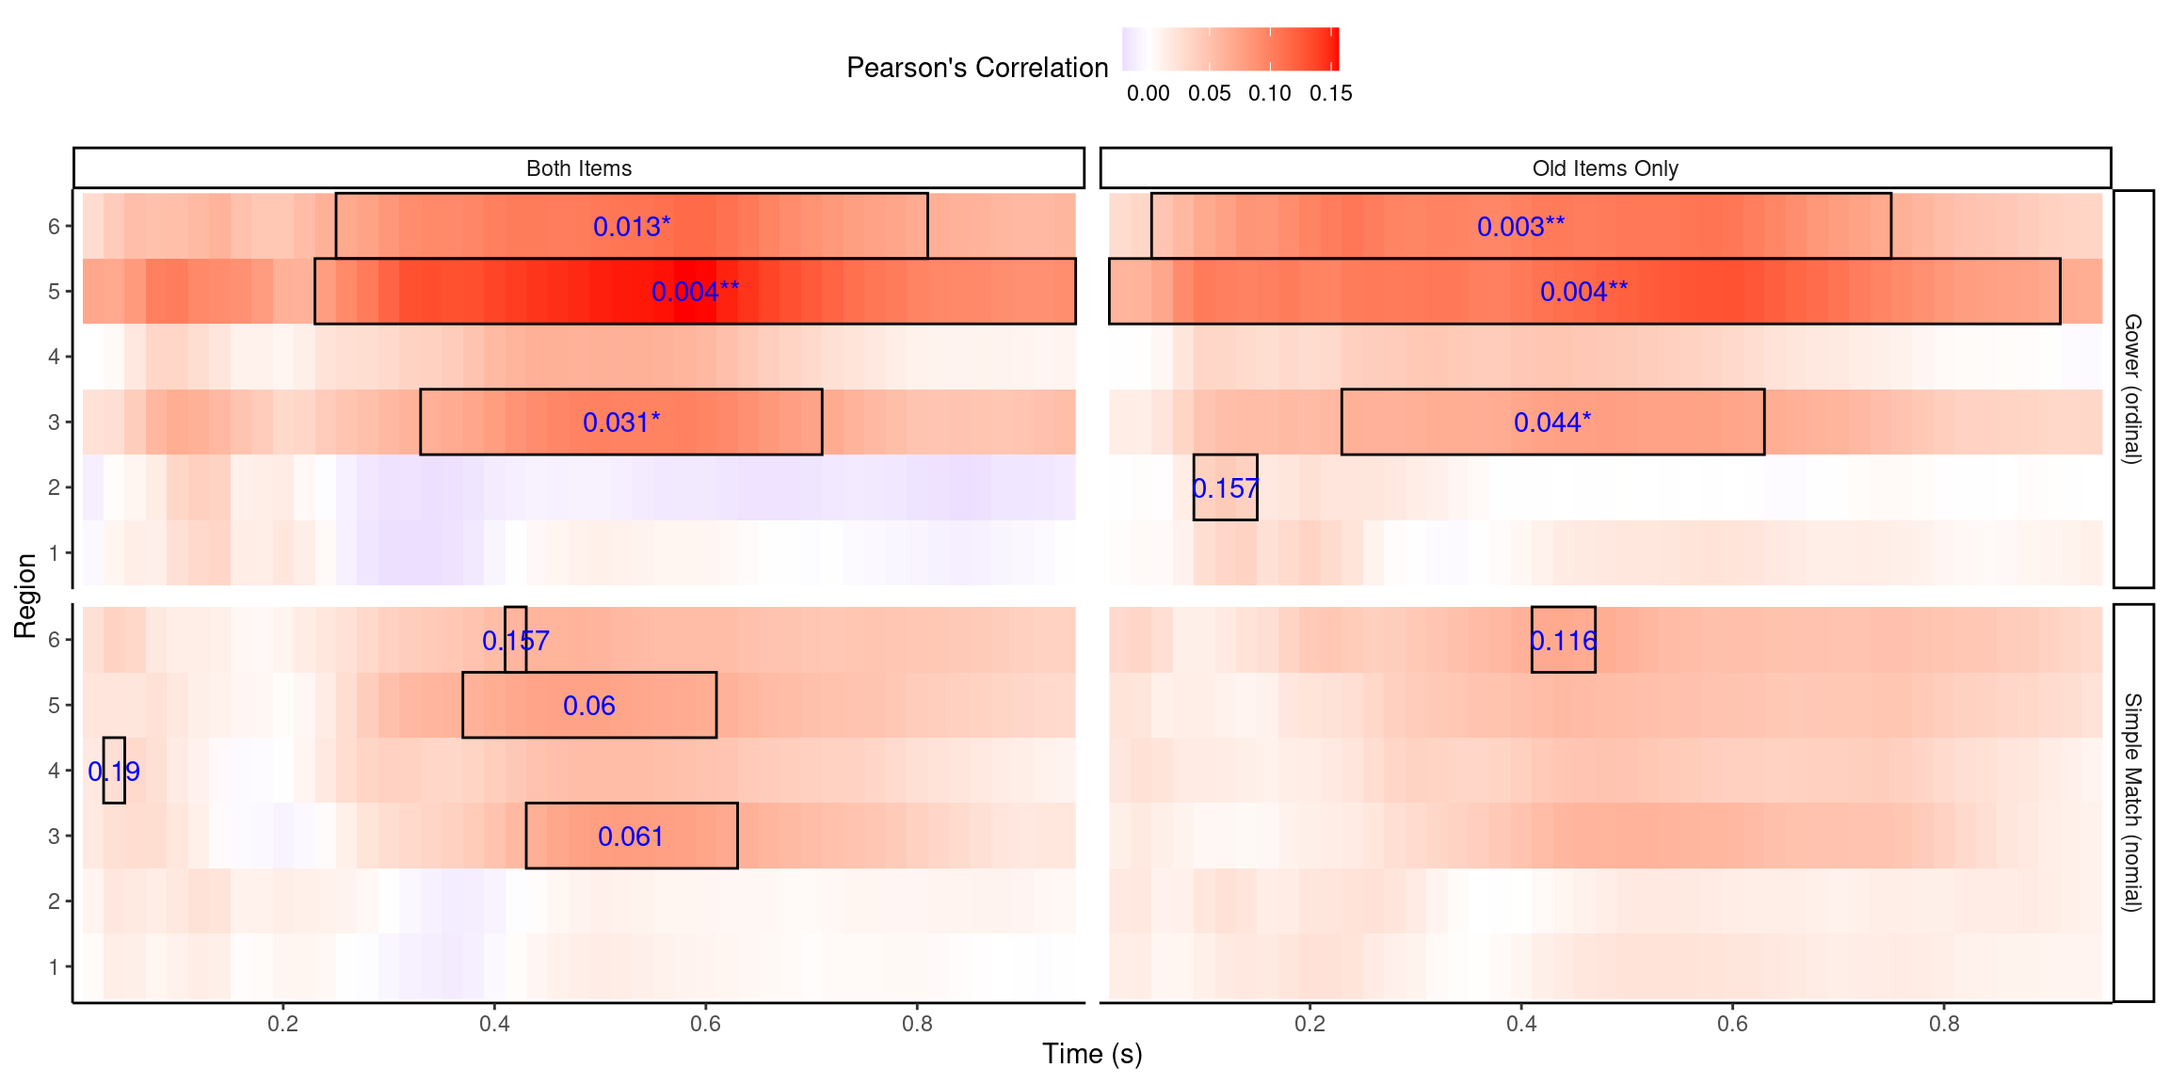
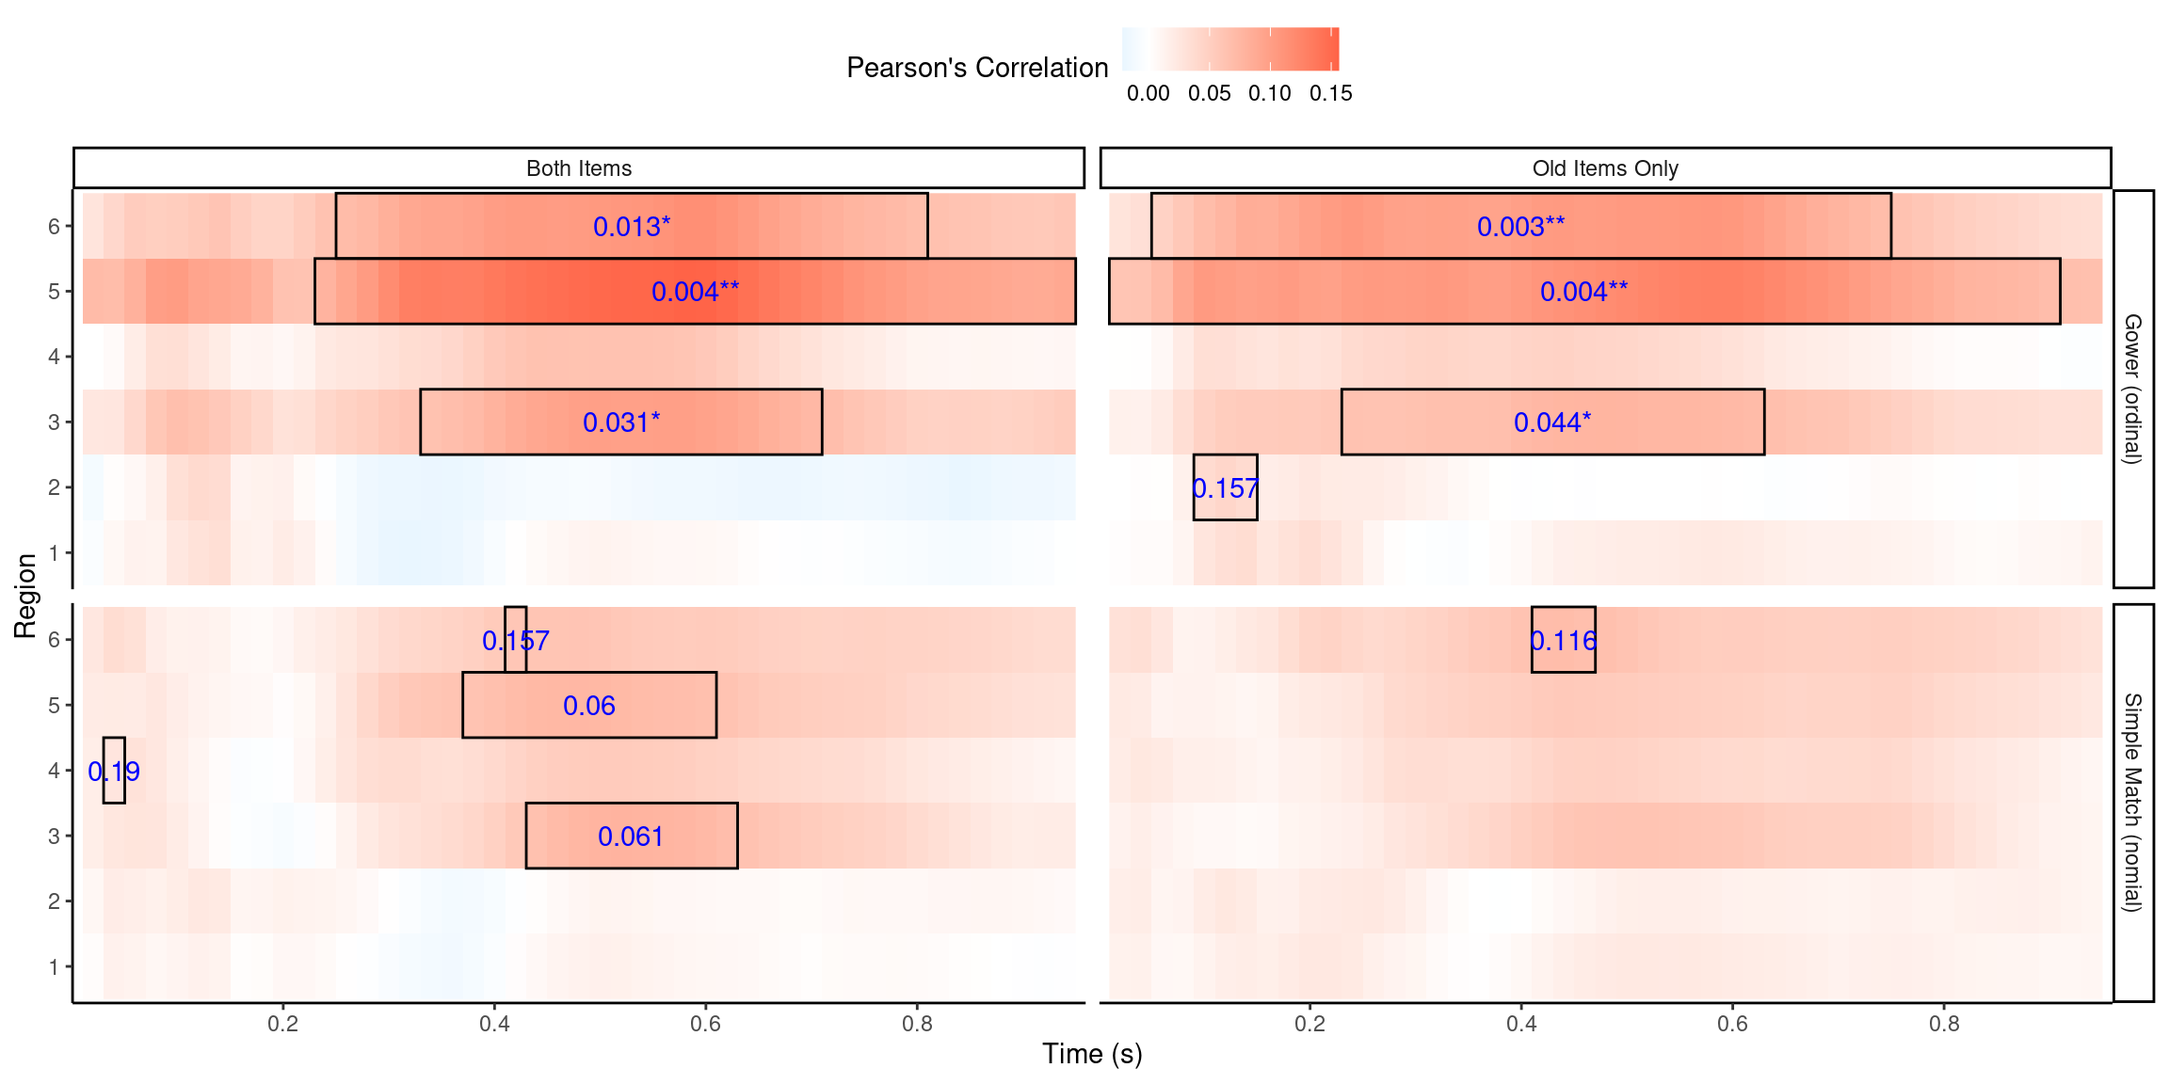
Built site for gh-pages

diff --git a/index.html b/index.html
@@ -201,7 +201,8 @@ div.csl-indent {
 <div class="cell">
 <details>
 <summary>Code</summary>
-<div class="sourceCode cell-code" id="cb1"><pre class="sourceCode r code-with-copy"><code class="sourceCode r"><span id="cb1-1"><a href="#cb1-1" aria-hidden="true" tabindex="-1"></a>devtools<span class="sc">::</span><span class="fu">load_all</span>()</span></code><button title="Copy to Clipboard" class="code-copy-button"><i class="bi"></i></button></pre></div>
+<div class="sourceCode cell-code" id="cb1"><pre class="sourceCode r code-with-copy"><code class="sourceCode r"><span id="cb1-1"><a href="#cb1-1" aria-hidden="true" tabindex="-1"></a>devtools<span class="sc">::</span><span class="fu">load_all</span>()</span>
+<span id="cb1-2"><a href="#cb1-2" aria-hidden="true" tabindex="-1"></a>colors_cor <span class="ot">&lt;-</span> <span class="fu">c</span>(<span class="at">pos =</span> <span class="st">"tomato"</span>, <span class="at">neg =</span> <span class="st">"deepskyblue"</span>)</span></code><button title="Copy to Clipboard" class="code-copy-button"><i class="bi"></i></button></pre></div>
 </details>
 </div>
 <section id="inter-subject-representation-similarity" class="level1">
@@ -374,51 +375,60 @@ div.csl-indent {
 <span id="cb4-53"><a href="#cb4-53" aria-hidden="true" tabindex="-1"></a>  ) <span class="sc">+</span></span>
 <span id="cb4-54"><a href="#cb4-54" aria-hidden="true" tabindex="-1"></a>  ggpubr<span class="sc">::</span><span class="fu">theme_pubr</span>()</span>
 <span id="cb4-55"><a href="#cb4-55" aria-hidden="true" tabindex="-1"></a></span>
-<span id="cb4-56"><a href="#cb4-56" aria-hidden="true" tabindex="-1"></a>clusters_p_pred_perf <span class="ot">&lt;-</span> targets<span class="sc">::</span><span class="fu">tar_read</span>(clusters_p_pred_perf) <span class="sc">|&gt;</span></span>
+<span id="cb4-56"><a href="#cb4-56" aria-hidden="true" tabindex="-1"></a>stats_pred_perf <span class="ot">&lt;-</span> targets<span class="sc">::</span><span class="fu">tar_read</span>(stats_pred_perf) <span class="sc">|&gt;</span></span>
 <span id="cb4-57"><a href="#cb4-57" aria-hidden="true" tabindex="-1"></a>  <span class="fu">filter</span>(mem_type <span class="sc">%in%</span> <span class="fu">names</span>(labels_mem_type))</span>
-<span id="cb4-58"><a href="#cb4-58" aria-hidden="true" tabindex="-1"></a>stats_pred_perf <span class="ot">&lt;-</span> targets<span class="sc">::</span><span class="fu">tar_read</span>(stats_pred_perf) <span class="sc">|&gt;</span></span>
+<span id="cb4-58"><a href="#cb4-58" aria-hidden="true" tabindex="-1"></a>clusters_p_pred_perf <span class="ot">&lt;-</span> targets<span class="sc">::</span><span class="fu">tar_read</span>(clusters_p_pred_perf) <span class="sc">|&gt;</span></span>
 <span id="cb4-59"><a href="#cb4-59" aria-hidden="true" tabindex="-1"></a>  <span class="fu">filter</span>(mem_type <span class="sc">%in%</span> <span class="fu">names</span>(labels_mem_type))</span>
-<span id="cb4-60"><a href="#cb4-60" aria-hidden="true" tabindex="-1"></a>stats_pred_perf <span class="sc">|&gt;</span></span>
-<span id="cb4-61"><a href="#cb4-61" aria-hidden="true" tabindex="-1"></a>  <span class="fu">ggplot</span>(<span class="fu">aes</span>(window_id, estimate)) <span class="sc">+</span></span>
-<span id="cb4-62"><a href="#cb4-62" aria-hidden="true" tabindex="-1"></a>  <span class="fu">geom_area</span>(</span>
-<span id="cb4-63"><a href="#cb4-63" aria-hidden="true" tabindex="-1"></a>    <span class="at">data =</span> stats_pred_perf <span class="sc">|&gt;</span></span>
-<span id="cb4-64"><a href="#cb4-64" aria-hidden="true" tabindex="-1"></a>      <span class="fu">inner_join</span>(</span>
-<span id="cb4-65"><a href="#cb4-65" aria-hidden="true" tabindex="-1"></a>        clusters_p_pred_perf,</span>
-<span id="cb4-66"><a href="#cb4-66" aria-hidden="true" tabindex="-1"></a>        <span class="at">by =</span> <span class="fu">join_by</span>(region_id, mem_type, window_id <span class="sc">&gt;=</span> start, window_id <span class="sc">&lt;=</span> end)</span>
-<span id="cb4-67"><a href="#cb4-67" aria-hidden="true" tabindex="-1"></a>      ),</span>
-<span id="cb4-68"><a href="#cb4-68" aria-hidden="true" tabindex="-1"></a>    <span class="at">alpha =</span> <span class="fl">0.5</span></span>
-<span id="cb4-69"><a href="#cb4-69" aria-hidden="true" tabindex="-1"></a>  ) <span class="sc">+</span></span>
-<span id="cb4-70"><a href="#cb4-70" aria-hidden="true" tabindex="-1"></a>  <span class="fu">geom_line</span>() <span class="sc">+</span></span>
-<span id="cb4-71"><a href="#cb4-71" aria-hidden="true" tabindex="-1"></a>  <span class="fu">facet_grid</span>(</span>
-<span id="cb4-72"><a href="#cb4-72" aria-hidden="true" tabindex="-1"></a>    <span class="at">rows =</span> <span class="fu">vars</span>(mem_type),</span>
-<span id="cb4-73"><a href="#cb4-73" aria-hidden="true" tabindex="-1"></a>    <span class="at">cols =</span> <span class="fu">vars</span>(region_id),</span>
-<span id="cb4-74"><a href="#cb4-74" aria-hidden="true" tabindex="-1"></a>    <span class="at">labeller =</span> <span class="fu">labeller</span>(<span class="at">mem_type =</span> labels_mem_type)</span>
-<span id="cb4-75"><a href="#cb4-75" aria-hidden="true" tabindex="-1"></a>  ) <span class="sc">+</span></span>
-<span id="cb4-76"><a href="#cb4-76" aria-hidden="true" tabindex="-1"></a>  <span class="fu">geom_text</span>(</span>
-<span id="cb4-77"><a href="#cb4-77" aria-hidden="true" tabindex="-1"></a>    <span class="fu">aes</span>(mid, estimate <span class="sc">/</span> <span class="dv">2</span>, <span class="at">label =</span> label),</span>
-<span id="cb4-78"><a href="#cb4-78" aria-hidden="true" tabindex="-1"></a>    <span class="at">data =</span> clusters_p_pred_perf <span class="sc">|&gt;</span></span>
-<span id="cb4-79"><a href="#cb4-79" aria-hidden="true" tabindex="-1"></a>      <span class="fu">mutate</span>(<span class="at">mid =</span> <span class="fu">round</span>((start <span class="sc">+</span> end) <span class="sc">/</span> <span class="dv">2</span>)) <span class="sc">|&gt;</span></span>
-<span id="cb4-80"><a href="#cb4-80" aria-hidden="true" tabindex="-1"></a>      <span class="fu">inner_join</span>(</span>
-<span id="cb4-81"><a href="#cb4-81" aria-hidden="true" tabindex="-1"></a>        stats_pred_perf,</span>
-<span id="cb4-82"><a href="#cb4-82" aria-hidden="true" tabindex="-1"></a>        <span class="at">by =</span> <span class="fu">join_by</span>(region_id, mem_type, mid <span class="sc">==</span> window_id)</span>
-<span id="cb4-83"><a href="#cb4-83" aria-hidden="true" tabindex="-1"></a>      ) <span class="sc">|&gt;</span></span>
-<span id="cb4-84"><a href="#cb4-84" aria-hidden="true" tabindex="-1"></a>      <span class="fu">mutate</span>(</span>
-<span id="cb4-85"><a href="#cb4-85" aria-hidden="true" tabindex="-1"></a>        <span class="at">label =</span> <span class="fu">str_glue</span>(</span>
-<span id="cb4-86"><a href="#cb4-86" aria-hidden="true" tabindex="-1"></a>          <span class="st">"italic('p')=='{rstatix::p_mark_significant(p_perm)}'"</span></span>
-<span id="cb4-87"><a href="#cb4-87" aria-hidden="true" tabindex="-1"></a>        )</span>
-<span id="cb4-88"><a href="#cb4-88" aria-hidden="true" tabindex="-1"></a>      ),</span>
-<span id="cb4-89"><a href="#cb4-89" aria-hidden="true" tabindex="-1"></a>    <span class="at">parse =</span> <span class="cn">TRUE</span></span>
-<span id="cb4-90"><a href="#cb4-90" aria-hidden="true" tabindex="-1"></a>  ) <span class="sc">+</span></span>
-<span id="cb4-91"><a href="#cb4-91" aria-hidden="true" tabindex="-1"></a>  <span class="fu">scale_x_continuous</span>(<span class="at">name =</span> <span class="st">"Time (s)"</span>, <span class="at">labels =</span> \(x) x <span class="sc">*</span> <span class="fl">0.02</span>) <span class="sc">+</span></span>
-<span id="cb4-92"><a href="#cb4-92" aria-hidden="true" tabindex="-1"></a>  <span class="fu">scale_y_continuous</span>(<span class="at">name =</span> <span class="st">"Pearson's Correlation"</span>) <span class="sc">+</span></span>
-<span id="cb4-93"><a href="#cb4-93" aria-hidden="true" tabindex="-1"></a>  ggh4x<span class="sc">::</span><span class="fu">coord_axes_inside</span>(<span class="at">labels_inside =</span> <span class="cn">TRUE</span>, <span class="at">expand =</span> <span class="cn">FALSE</span>) <span class="sc">+</span></span>
-<span id="cb4-94"><a href="#cb4-94" aria-hidden="true" tabindex="-1"></a>  ggpubr<span class="sc">::</span><span class="fu">theme_pubr</span>() <span class="sc">+</span></span>
-<span id="cb4-95"><a href="#cb4-95" aria-hidden="true" tabindex="-1"></a>  <span class="fu">theme</span>(</span>
-<span id="cb4-96"><a href="#cb4-96" aria-hidden="true" tabindex="-1"></a>    <span class="at">axis.title.y.left =</span> <span class="fu">element_text</span>(</span>
-<span id="cb4-97"><a href="#cb4-97" aria-hidden="true" tabindex="-1"></a>      <span class="at">margin =</span> <span class="fu">margin</span>(<span class="at">r =</span> <span class="dv">30</span>)</span>
-<span id="cb4-98"><a href="#cb4-98" aria-hidden="true" tabindex="-1"></a>    ),</span>
-<span id="cb4-99"><a href="#cb4-99" aria-hidden="true" tabindex="-1"></a>    <span class="at">panel.spacing.x =</span> <span class="fu">unit</span>(<span class="fl">1.5</span>, <span class="st">"lines"</span>)</span>
-<span id="cb4-100"><a href="#cb4-100" aria-hidden="true" tabindex="-1"></a>  )</span></code><button title="Copy to Clipboard" class="code-copy-button"><i class="bi"></i></button></pre></div>
+<span id="cb4-60"><a href="#cb4-60" aria-hidden="true" tabindex="-1"></a><span class="fu">ggplot</span>() <span class="sc">+</span></span>
+<span id="cb4-61"><a href="#cb4-61" aria-hidden="true" tabindex="-1"></a>  <span class="fu">geom_raster</span>(</span>
+<span id="cb4-62"><a href="#cb4-62" aria-hidden="true" tabindex="-1"></a>    <span class="at">data =</span> stats_pred_perf,</span>
+<span id="cb4-63"><a href="#cb4-63" aria-hidden="true" tabindex="-1"></a>    <span class="at">mapping =</span> <span class="fu">aes</span>(window_id, region_id, <span class="at">fill =</span> estimate)</span>
+<span id="cb4-64"><a href="#cb4-64" aria-hidden="true" tabindex="-1"></a>  ) <span class="sc">+</span></span>
+<span id="cb4-65"><a href="#cb4-65" aria-hidden="true" tabindex="-1"></a>  <span class="fu">geom_rect</span>(</span>
+<span id="cb4-66"><a href="#cb4-66" aria-hidden="true" tabindex="-1"></a>    <span class="at">data =</span> clusters_p_pred_perf,</span>
+<span id="cb4-67"><a href="#cb4-67" aria-hidden="true" tabindex="-1"></a>    <span class="at">mapping =</span> <span class="fu">aes</span>(</span>
+<span id="cb4-68"><a href="#cb4-68" aria-hidden="true" tabindex="-1"></a>      <span class="at">xmin =</span> start <span class="sc">-</span> <span class="fl">0.5</span>, </span>
+<span id="cb4-69"><a href="#cb4-69" aria-hidden="true" tabindex="-1"></a>      <span class="at">xmax =</span> end <span class="sc">+</span> <span class="fl">0.5</span>, </span>
+<span id="cb4-70"><a href="#cb4-70" aria-hidden="true" tabindex="-1"></a>      <span class="at">ymin =</span> region_id <span class="sc">-</span> <span class="fl">0.5</span>, </span>
+<span id="cb4-71"><a href="#cb4-71" aria-hidden="true" tabindex="-1"></a>      <span class="at">ymax =</span> region_id <span class="sc">+</span> <span class="fl">0.5</span></span>
+<span id="cb4-72"><a href="#cb4-72" aria-hidden="true" tabindex="-1"></a>    ),</span>
+<span id="cb4-73"><a href="#cb4-73" aria-hidden="true" tabindex="-1"></a>    <span class="at">color =</span> <span class="st">"black"</span>,</span>
+<span id="cb4-74"><a href="#cb4-74" aria-hidden="true" tabindex="-1"></a>    <span class="at">fill =</span> <span class="cn">NA</span>,</span>
+<span id="cb4-75"><a href="#cb4-75" aria-hidden="true" tabindex="-1"></a>    <span class="at">na.rm =</span> <span class="cn">TRUE</span></span>
+<span id="cb4-76"><a href="#cb4-76" aria-hidden="true" tabindex="-1"></a>  ) <span class="sc">+</span></span>
+<span id="cb4-77"><a href="#cb4-77" aria-hidden="true" tabindex="-1"></a>  <span class="fu">geom_text</span>(</span>
+<span id="cb4-78"><a href="#cb4-78" aria-hidden="true" tabindex="-1"></a>    <span class="at">data =</span> clusters_p_pred_perf,</span>
+<span id="cb4-79"><a href="#cb4-79" aria-hidden="true" tabindex="-1"></a>    <span class="at">mapping =</span> <span class="fu">aes</span>(</span>
+<span id="cb4-80"><a href="#cb4-80" aria-hidden="true" tabindex="-1"></a>      (start <span class="sc">+</span> end) <span class="sc">/</span> <span class="dv">2</span>,</span>
+<span id="cb4-81"><a href="#cb4-81" aria-hidden="true" tabindex="-1"></a>      region_id,</span>
+<span id="cb4-82"><a href="#cb4-82" aria-hidden="true" tabindex="-1"></a>      <span class="at">label =</span> rstatix<span class="sc">::</span><span class="fu">p_mark_significant</span>(p_perm)</span>
+<span id="cb4-83"><a href="#cb4-83" aria-hidden="true" tabindex="-1"></a>    ),</span>
+<span id="cb4-84"><a href="#cb4-84" aria-hidden="true" tabindex="-1"></a>    <span class="at">color =</span> <span class="st">"blue"</span>,</span>
+<span id="cb4-85"><a href="#cb4-85" aria-hidden="true" tabindex="-1"></a>    <span class="at">na.rm =</span> <span class="cn">TRUE</span></span>
+<span id="cb4-86"><a href="#cb4-86" aria-hidden="true" tabindex="-1"></a>  ) <span class="sc">+</span></span>
+<span id="cb4-87"><a href="#cb4-87" aria-hidden="true" tabindex="-1"></a>  <span class="fu">scale_fill_gradient2</span>(</span>
+<span id="cb4-88"><a href="#cb4-88" aria-hidden="true" tabindex="-1"></a>    <span class="at">name =</span> <span class="st">"Pearson's Correlation"</span>, </span>
+<span id="cb4-89"><a href="#cb4-89" aria-hidden="true" tabindex="-1"></a>    <span class="at">low =</span> colors_cor[<span class="st">"neg"</span>], </span>
+<span id="cb4-90"><a href="#cb4-90" aria-hidden="true" tabindex="-1"></a>    <span class="at">high =</span> colors_cor[<span class="st">"pos"</span>]</span>
+<span id="cb4-91"><a href="#cb4-91" aria-hidden="true" tabindex="-1"></a>  ) <span class="sc">+</span></span>
+<span id="cb4-92"><a href="#cb4-92" aria-hidden="true" tabindex="-1"></a>  <span class="fu">scale_x_continuous</span>(</span>
+<span id="cb4-93"><a href="#cb4-93" aria-hidden="true" tabindex="-1"></a>    <span class="at">name =</span> <span class="st">"Time (s)"</span>, </span>
+<span id="cb4-94"><a href="#cb4-94" aria-hidden="true" tabindex="-1"></a>    <span class="at">labels =</span> \(x) x <span class="sc">*</span> <span class="fl">0.02</span>, </span>
+<span id="cb4-95"><a href="#cb4-95" aria-hidden="true" tabindex="-1"></a>    <span class="at">expand =</span> <span class="fu">expansion</span>(<span class="at">mult =</span> .<span class="dv">01</span>)</span>
+<span id="cb4-96"><a href="#cb4-96" aria-hidden="true" tabindex="-1"></a>  ) <span class="sc">+</span></span>
+<span id="cb4-97"><a href="#cb4-97" aria-hidden="true" tabindex="-1"></a>  <span class="fu">scale_y_continuous</span>(</span>
+<span id="cb4-98"><a href="#cb4-98" aria-hidden="true" tabindex="-1"></a>    <span class="at">name =</span> <span class="st">"Region"</span>,</span>
+<span id="cb4-99"><a href="#cb4-99" aria-hidden="true" tabindex="-1"></a>    <span class="at">breaks =</span> scales<span class="sc">::</span><span class="fu">breaks_width</span>(<span class="dv">1</span>),</span>
+<span id="cb4-100"><a href="#cb4-100" aria-hidden="true" tabindex="-1"></a>    <span class="at">expand =</span> <span class="fu">expansion</span>(<span class="at">mult =</span> .<span class="dv">01</span>)</span>
+<span id="cb4-101"><a href="#cb4-101" aria-hidden="true" tabindex="-1"></a>  ) <span class="sc">+</span></span>
+<span id="cb4-102"><a href="#cb4-102" aria-hidden="true" tabindex="-1"></a>  <span class="fu">facet_grid</span>(</span>
+<span id="cb4-103"><a href="#cb4-103" aria-hidden="true" tabindex="-1"></a>    <span class="at">rows =</span> <span class="fu">vars</span>(mem_type), </span>
+<span id="cb4-104"><a href="#cb4-104" aria-hidden="true" tabindex="-1"></a>    <span class="at">labeller =</span> <span class="fu">labeller</span>(</span>
+<span id="cb4-105"><a href="#cb4-105" aria-hidden="true" tabindex="-1"></a>      <span class="at">mem_type =</span> labels_mem_type</span>
+<span id="cb4-106"><a href="#cb4-106" aria-hidden="true" tabindex="-1"></a>    )</span>
+<span id="cb4-107"><a href="#cb4-107" aria-hidden="true" tabindex="-1"></a>  ) <span class="sc">+</span></span>
+<span id="cb4-108"><a href="#cb4-108" aria-hidden="true" tabindex="-1"></a>  <span class="fu">theme_classic</span>() <span class="sc">+</span></span>
+<span id="cb4-109"><a href="#cb4-109" aria-hidden="true" tabindex="-1"></a>  <span class="fu">theme</span>(<span class="at">legend.position =</span> <span class="st">"top"</span>)</span></code><button title="Copy to Clipboard" class="code-copy-button"><i class="bi"></i></button></pre></div>
 </details>
 <div class="cell-output-display column-page">
 <div id="fig-predict-performance-1" class="quarto-figure quarto-figure-center anchored">
@@ -508,8 +518,8 @@ div.csl-indent {
 <span id="cb5-51"><a href="#cb5-51" aria-hidden="true" tabindex="-1"></a>  ) <span class="sc">+</span></span>
 <span id="cb5-52"><a href="#cb5-52" aria-hidden="true" tabindex="-1"></a>  <span class="fu">scale_fill_gradient2</span>(</span>
 <span id="cb5-53"><a href="#cb5-53" aria-hidden="true" tabindex="-1"></a>    <span class="at">name =</span> <span class="st">"Pearson's Correlation"</span>, </span>
-<span id="cb5-54"><a href="#cb5-54" aria-hidden="true" tabindex="-1"></a>    <span class="at">low =</span> <span class="st">"blue"</span>, </span>
-<span id="cb5-55"><a href="#cb5-55" aria-hidden="true" tabindex="-1"></a>    <span class="at">high =</span> <span class="st">"red"</span></span>
+<span id="cb5-54"><a href="#cb5-54" aria-hidden="true" tabindex="-1"></a>    <span class="at">low =</span> colors_cor[<span class="st">"neg"</span>], </span>
+<span id="cb5-55"><a href="#cb5-55" aria-hidden="true" tabindex="-1"></a>    <span class="at">high =</span> colors_cor[<span class="st">"pos"</span>]</span>
 <span id="cb5-56"><a href="#cb5-56" aria-hidden="true" tabindex="-1"></a>  ) <span class="sc">+</span></span>
 <span id="cb5-57"><a href="#cb5-57" aria-hidden="true" tabindex="-1"></a>  <span class="fu">scale_x_continuous</span>(</span>
 <span id="cb5-58"><a href="#cb5-58" aria-hidden="true" tabindex="-1"></a>    <span class="at">name =</span> <span class="st">"Time (s)"</span>, </span>
@@ -608,8 +618,8 @@ div.csl-indent {
 <span id="cb6-51"><a href="#cb6-51" aria-hidden="true" tabindex="-1"></a>  ) <span class="sc">+</span></span>
 <span id="cb6-52"><a href="#cb6-52" aria-hidden="true" tabindex="-1"></a>  <span class="fu">scale_fill_gradient2</span>(</span>
 <span id="cb6-53"><a href="#cb6-53" aria-hidden="true" tabindex="-1"></a>    <span class="at">name =</span> <span class="st">"Pearson's Correlation"</span>, </span>
-<span id="cb6-54"><a href="#cb6-54" aria-hidden="true" tabindex="-1"></a>    <span class="at">low =</span> <span class="st">"blue"</span>, </span>
-<span id="cb6-55"><a href="#cb6-55" aria-hidden="true" tabindex="-1"></a>    <span class="at">high =</span> <span class="st">"red"</span></span>
+<span id="cb6-54"><a href="#cb6-54" aria-hidden="true" tabindex="-1"></a>    <span class="at">low =</span> colors_cor[<span class="st">"neg"</span>], </span>
+<span id="cb6-55"><a href="#cb6-55" aria-hidden="true" tabindex="-1"></a>    <span class="at">high =</span> colors_cor[<span class="st">"pos"</span>]</span>
 <span id="cb6-56"><a href="#cb6-56" aria-hidden="true" tabindex="-1"></a>  ) <span class="sc">+</span></span>
 <span id="cb6-57"><a href="#cb6-57" aria-hidden="true" tabindex="-1"></a>  <span class="fu">scale_x_continuous</span>(</span>
 <span id="cb6-58"><a href="#cb6-58" aria-hidden="true" tabindex="-1"></a>    <span class="at">name =</span> <span class="st">"Time (s)"</span>, </span>
